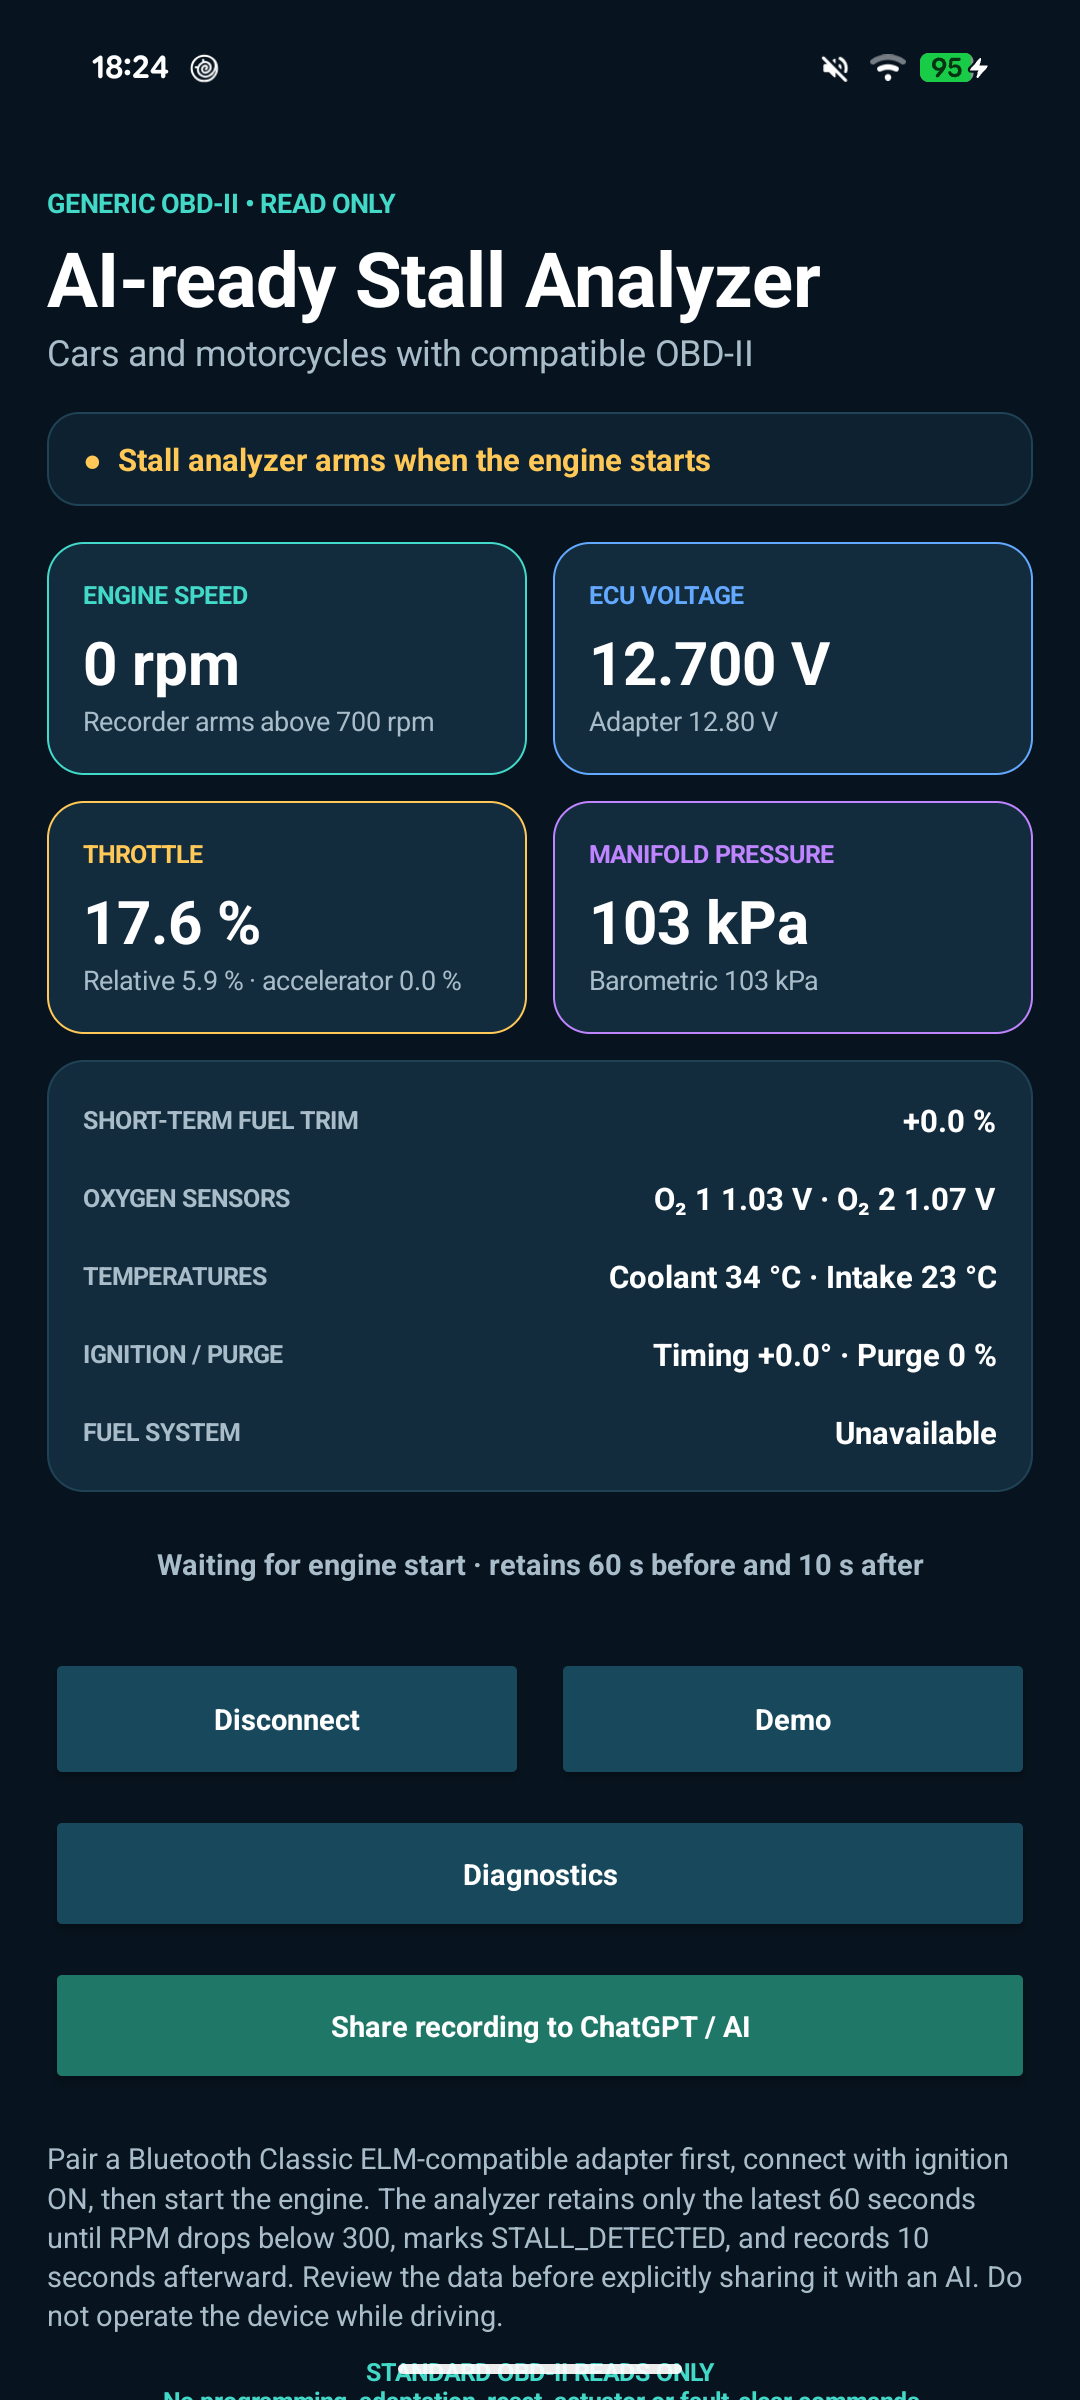
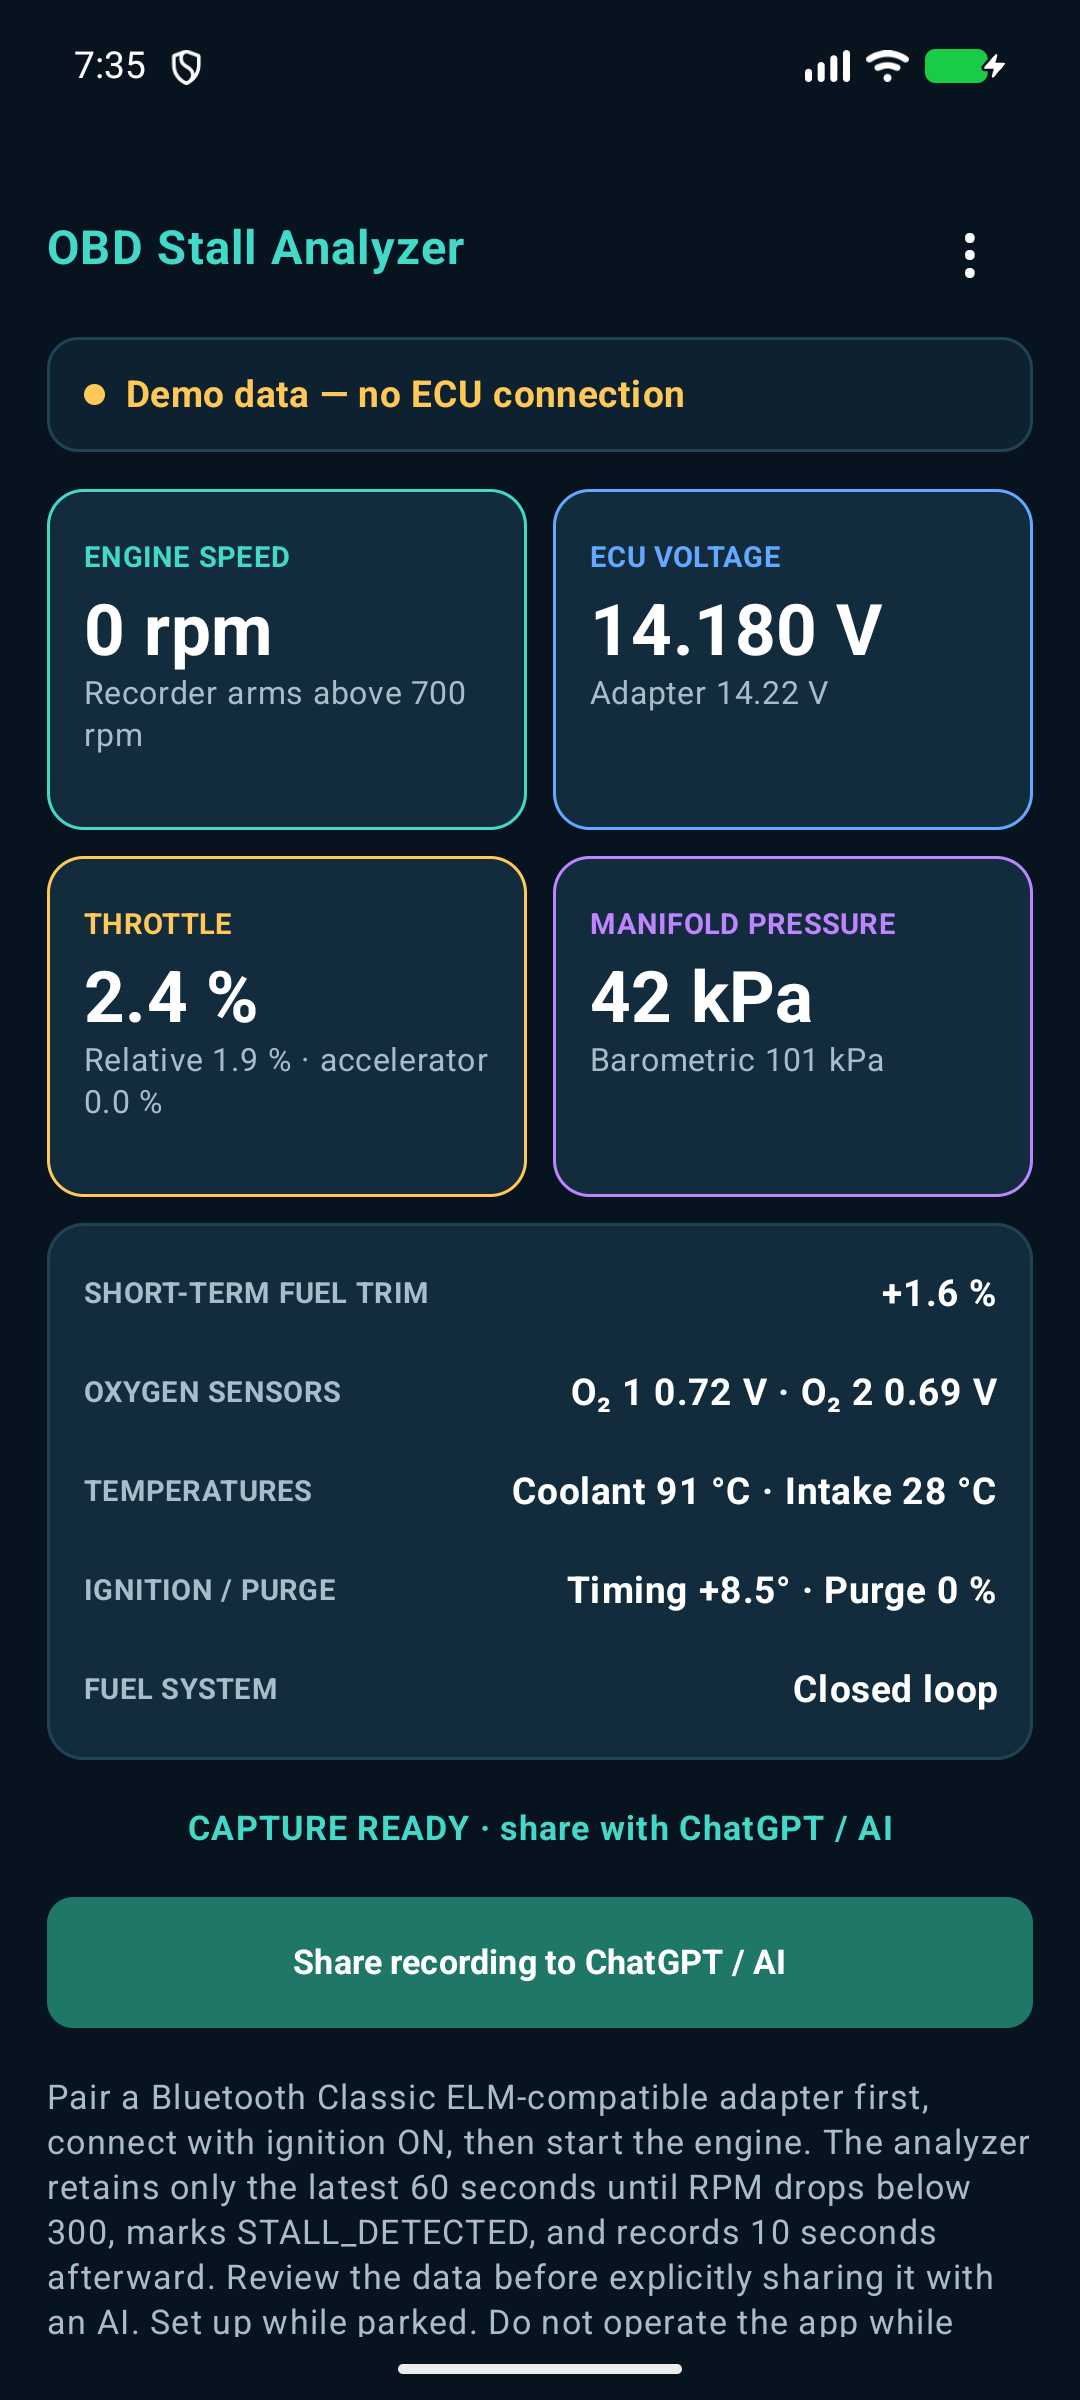
Refresh demo capture flow and screenshots

diff --git a/app/src/main/kotlin/com/melashkov/obdstallanalyzer/presentation/StallAnalyzerViewModel.kt b/app/src/main/kotlin/com/melashkov/obdstallanalyzer/presentation/StallAnalyzerViewModel.kt
@@ -110,9 +110,23 @@ internal class StallAnalyzerViewModel(
         }
         demoJob = viewModelScope.launch {
             val startedAt = System.currentTimeMillis()
+            var stallEmitted = false
             while (isActive) {
                 val seconds = (System.currentTimeMillis() - startedAt) / 1000.0f
-                updateSample(demoSample(seconds))
+                val sample = when {
+                    seconds < DEMO_ENGINE_START_SECONDS -> demoSample(seconds).copy(
+                        rpm = 0.0f,
+                        fuelSystemStatus = "Waiting for engine",
+                    )
+                    seconds < DEMO_STALL_SECONDS ->
+                        demoSample(seconds - DEMO_ENGINE_START_SECONDS)
+                    else -> demoSample(seconds - DEMO_ENGINE_START_SECONDS).copy(
+                        rpm = 0.0f,
+                        event = if (stallEmitted) "" else StallEventRecorder.STALL_EVENT,
+                    )
+                }
+                if (sample.event == StallEventRecorder.STALL_EVENT) stallEmitted = true
+                updateSample(sample)
                 delay(350L)
             }
         }
@@ -264,6 +278,11 @@ internal class StallAnalyzerViewModel(
         fuelSystemStatus = "Closed loop",
         timestampMs = System.currentTimeMillis(),
     )
+
+    private companion object {
+        const val DEMO_ENGINE_START_SECONDS = 5.0f
+        const val DEMO_STALL_SECONDS = 10.0f
+    }
 
     class Factory(
         private val repository: ObdRepository,

diff --git a/README.md b/README.md
@@ -9,16 +9,16 @@
 OBD Stall Analyzer is a read-only Android app for cars and motorcycles with a compatible OBD-II adapter. It keeps a rolling window of live engine data, detects a stall from the RPM transition, and packages the event as a portable CSV-backed diagnostic report.
 
 <p align="center">
-  <img src="docs/images/engine-waiting.png" alt="OBD Stall Analyzer connected and waiting for the engine to start" width="30%">
+  <img src="docs/images/engine-waiting.png" alt="OBD Stall Analyzer waiting for the engine to start" width="30%">
   &nbsp;
   <img src="docs/images/engine-armed.png" alt="OBD Stall Analyzer armed while the engine is running" width="30%">
   &nbsp;
-  <img src="docs/images/engine-stopped.png" alt="OBD Stall Analyzer after the engine has stopped" width="30%">
+  <img src="docs/images/engine-stopped.png" alt="OBD Stall Analyzer capture ready after the engine has stopped" width="30%">
 </p>
 
 <p align="center">
-  <strong>Connected</strong> &nbsp;•&nbsp; <strong>Armed</strong> &nbsp;•&nbsp; <strong>Engine stopped</strong><br>
-  <em>A live OBD-II session from ignition-on through the capture cycle.</em>
+  <strong>Waiting</strong> &nbsp;•&nbsp; <strong>Armed</strong> &nbsp;•&nbsp; <strong>Capture ready</strong><br>
+  <em>The demo reproduces the dashboard's complete stall-capture cycle.</em>
 </p>
 
 ## Why use it?
